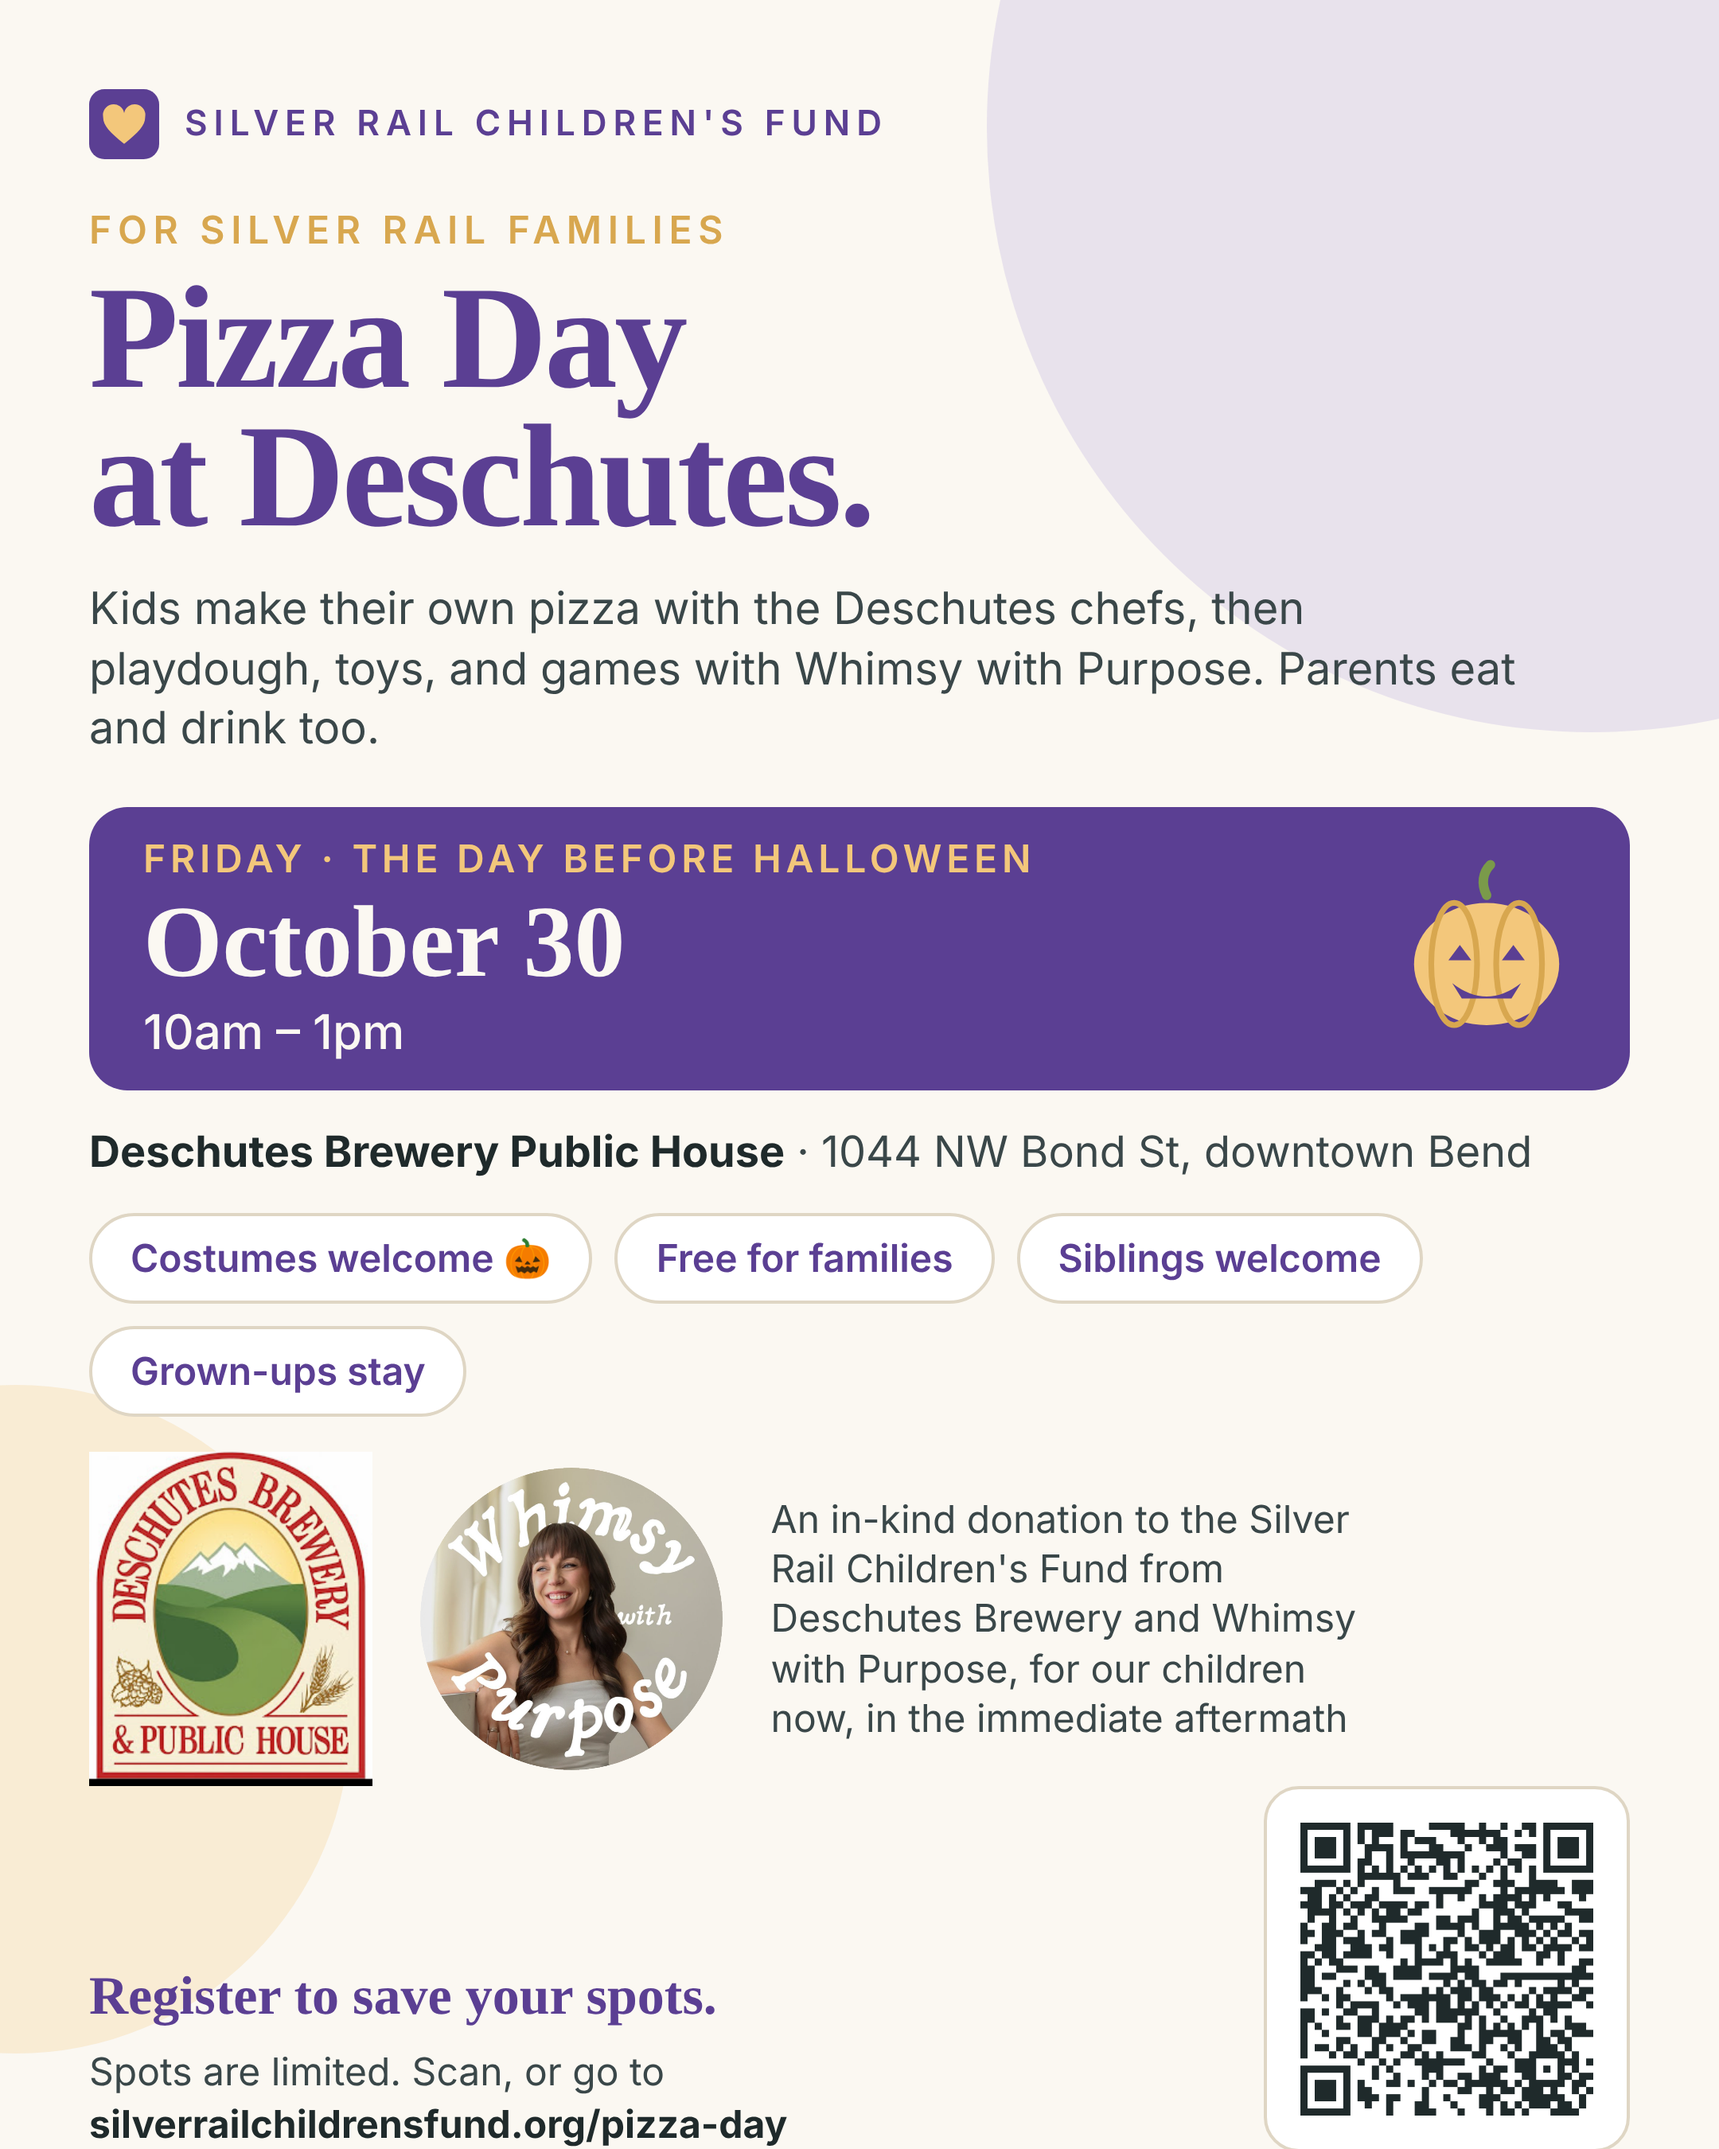
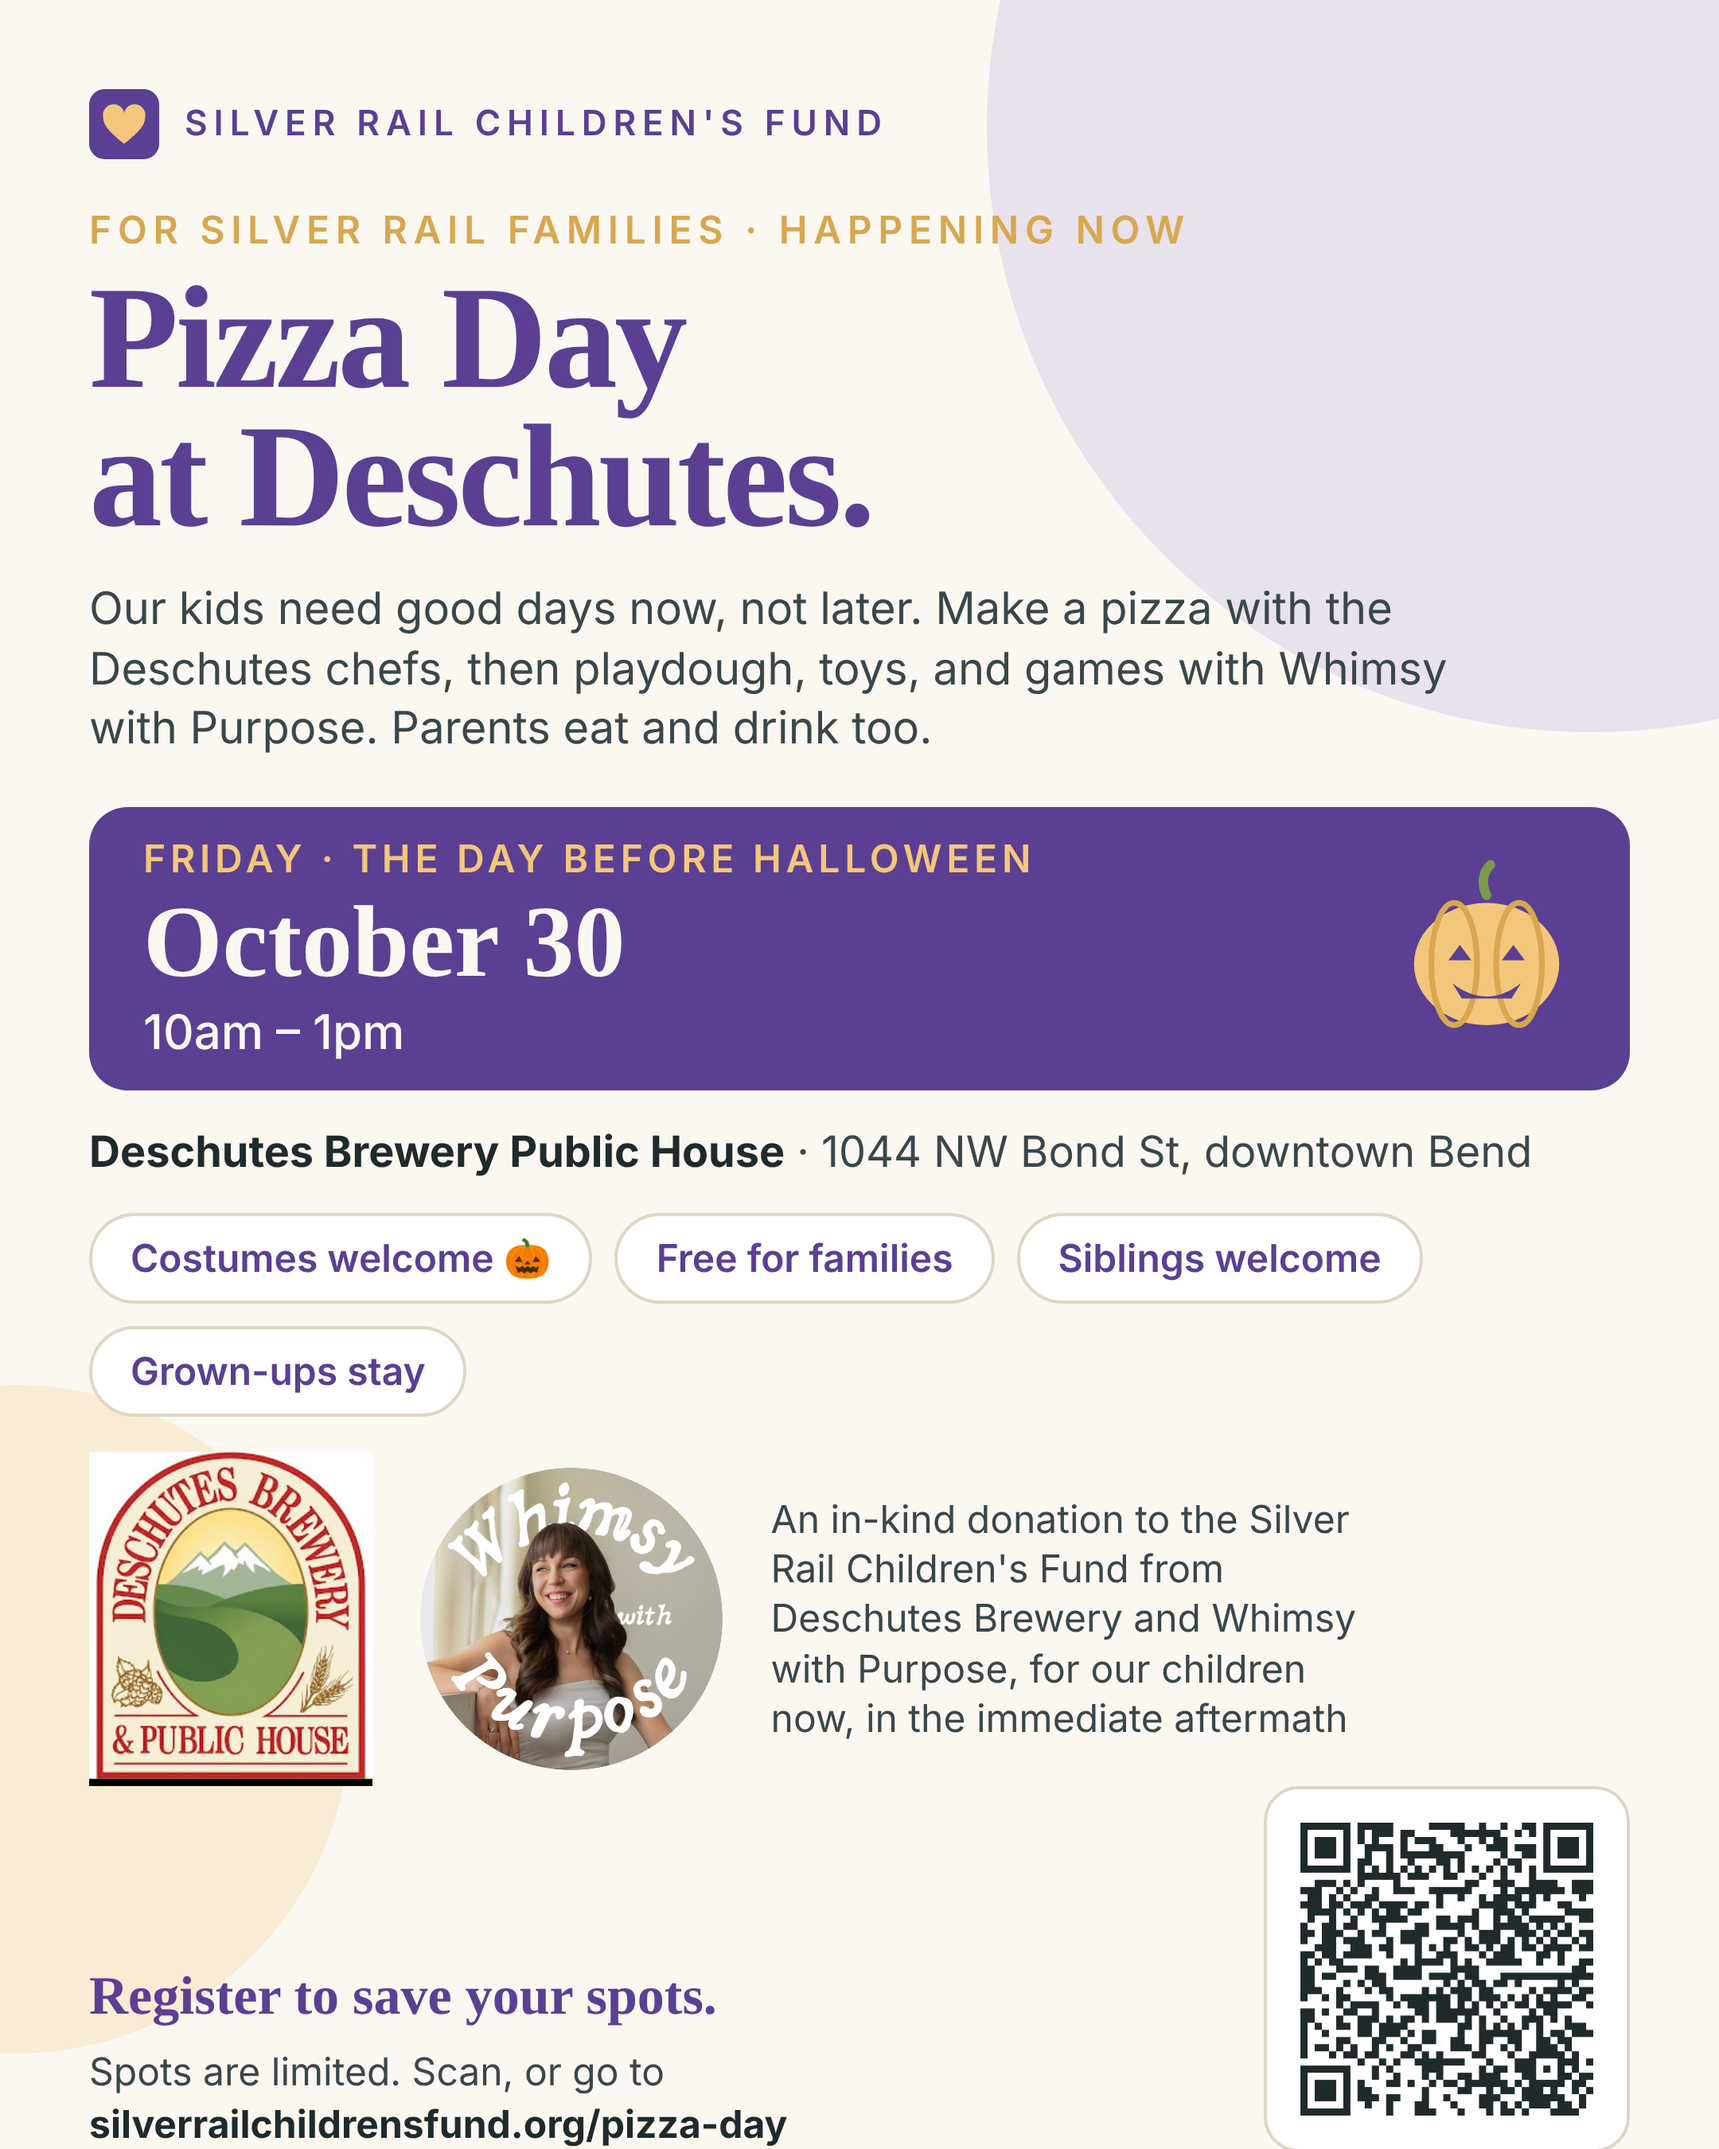
Pizza Day: happening now positioning
Claude-Session: https://claude.ai/code/session_019jt2LXU3CZrv6nyaaDTgQ8

Changed region(s): [[0.062, 0.28, 0.8375, 0.3422], [0.4653, 0.0933, 0.6824, 0.1244]]

diff --git a/pizza-day.html b/pizza-day.html
@@ -154,7 +154,7 @@ dl.faq dd{margin:4px 0 0;color:var(--ink-2)}
   <div class="wrap">
     <div class="eyebrow">Pizza Day · Downtown Bend</div>
     <h1>Make a pizza with the chefs.</h1>
-    <p class="lede">Deschutes Brewery is hosting Silver Rail kids and their families at the Public House downtown. Kids make their own pizza with the Deschutes chefs, make playdough, and play games led by Whimsy with Purpose. This is an in-kind donation: Deschutes is giving the space, the staff, the food, and the drinks. Whimsy with Purpose is giving the play. Families just show up.</p>
+    <p class="lede">Our children need good days now, not after the paperwork. So this is happening now. Deschutes Brewery is hosting Silver Rail kids and their families at the Public House downtown. Kids make their own pizza with the Deschutes chefs, make playdough, and play games led by Whimsy with Purpose. This is an in-kind donation: Deschutes is giving the space, the staff, the food, and the drinks. Whimsy with Purpose is giving the play. Families just show up.</p>
     <a class="btn" href="#register">Register your family</a>
   </div>
 </div>
